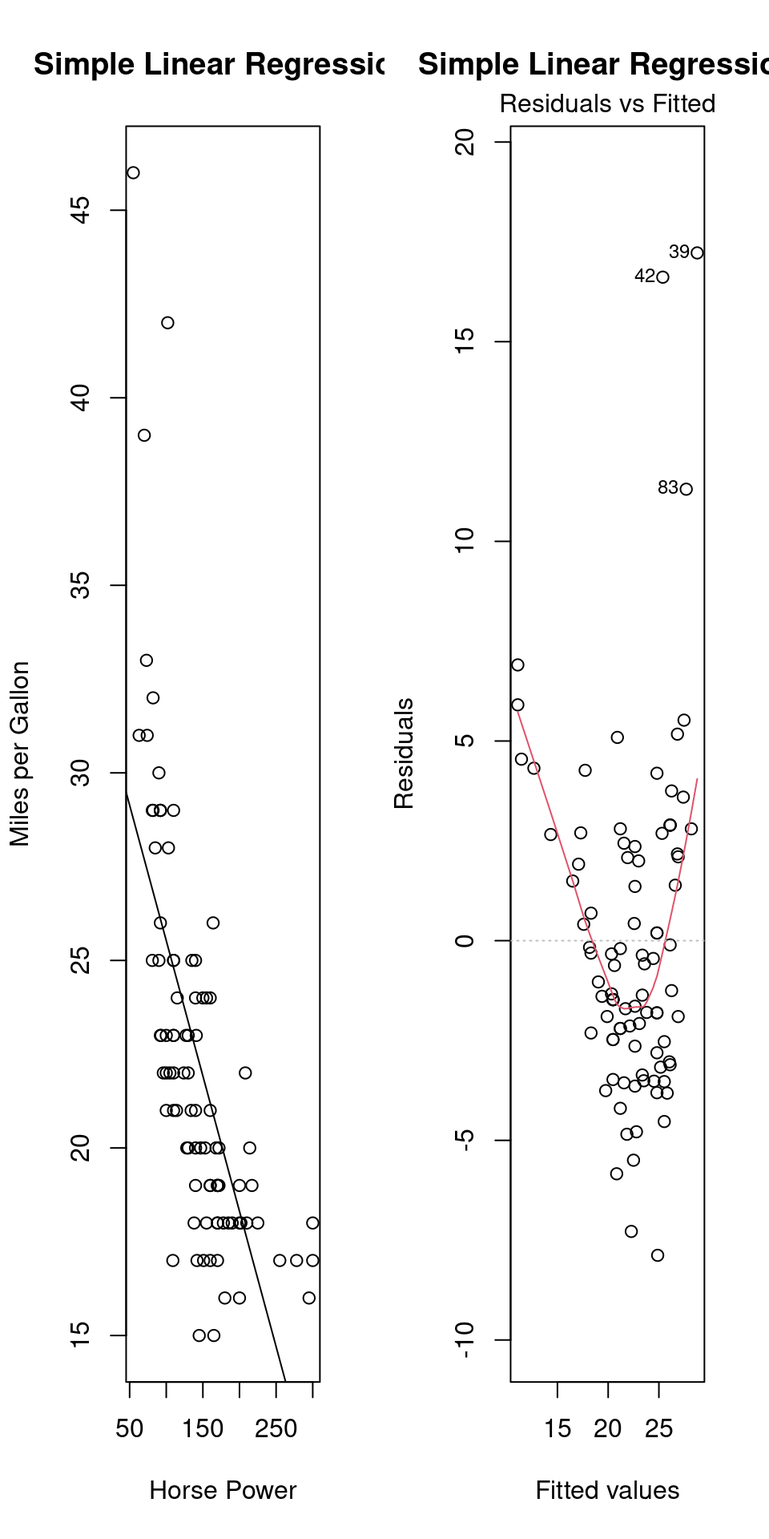
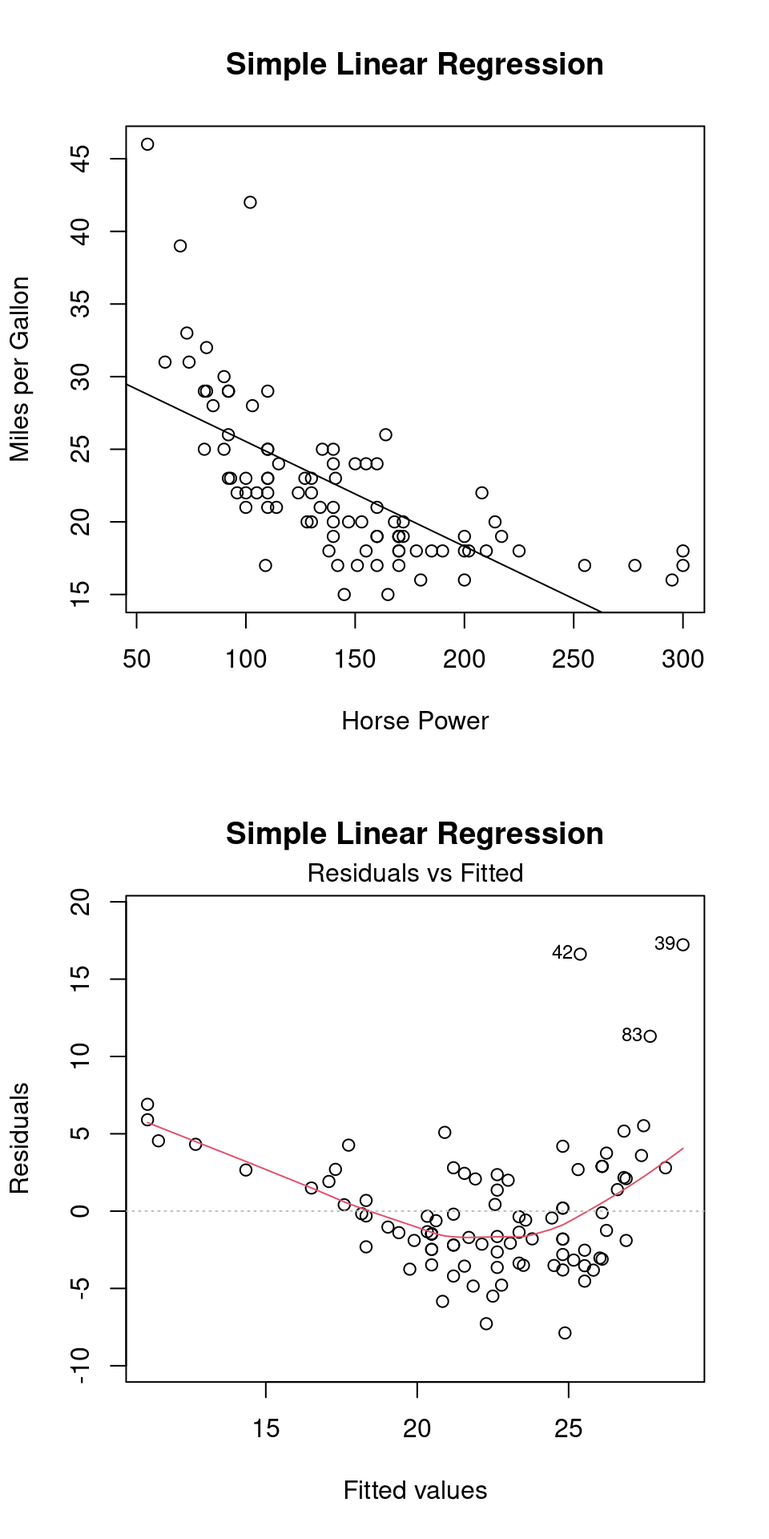
upd ch 4

diff --git a/85467d963958861b842aa28b9eb262b1ea250101/docs/04-MultipleReg.html b/85467d963958861b842aa28b9eb262b1ea250101/docs/04-MultipleReg.html
@@ -244,6 +244,7 @@ div.csl-indent {
   <li><a href="#dummy-variable-trap" id="toc-dummy-variable-trap" class="nav-link" data-scroll-target="#dummy-variable-trap">Dummy-Variable Trap</a></li>
   <li><a href="#detecting-heteroskedasticity" id="toc-detecting-heteroskedasticity" class="nav-link" data-scroll-target="#detecting-heteroskedasticity"><span class="toc-section-number">4.5.2</span>  Detecting Heteroskedasticity</a></li>
   <li><a href="#checking-non-linearity-of-the-regression-line" id="toc-checking-non-linearity-of-the-regression-line" class="nav-link" data-scroll-target="#checking-non-linearity-of-the-regression-line"><span class="toc-section-number">4.5.3</span>  Checking (Non-)Linearity of the Regression Line</a></li>
+  <li><a href="#behavior-of-the-ols-estimates-for-resampled-data" id="toc-behavior-of-the-ols-estimates-for-resampled-data" class="nav-link" data-scroll-target="#behavior-of-the-ols-estimates-for-resampled-data"><span class="toc-section-number">4.5.4</span>  Behavior of the OLS Estimates for Resampled Data</a></li>
   </ul></li>
   <li><a href="#references" id="toc-references" class="nav-link" data-scroll-target="#references">References</a></li>
   </ul>
@@ -820,7 +821,7 @@ X_female -4.103626</code></pre>
 <div class="cell" data-fig.dim="[5,10]">
 <div class="sourceCode cell-code" id="cb18"><pre class="sourceCode r code-with-copy"><code class="sourceCode r"><span id="cb18-1"><a href="#cb18-1" aria-hidden="true" tabindex="-1"></a>lm_obj_1 <span class="ot">&lt;-</span> <span class="fu">lm</span>(MPG <span class="sc">~</span> HP, <span class="at">data =</span> my_car_df)</span>
 <span id="cb18-2"><a href="#cb18-2" aria-hidden="true" tabindex="-1"></a></span>
-<span id="cb18-3"><a href="#cb18-3" aria-hidden="true" tabindex="-1"></a><span class="fu">par</span>(<span class="at">mfrow=</span><span class="fu">c</span>(<span class="dv">1</span>,<span class="dv">2</span>))</span>
+<span id="cb18-3"><a href="#cb18-3" aria-hidden="true" tabindex="-1"></a><span class="fu">par</span>(<span class="at">mfrow=</span><span class="fu">c</span>(<span class="dv">2</span>,<span class="dv">1</span>))</span>
 <span id="cb18-4"><a href="#cb18-4" aria-hidden="true" tabindex="-1"></a><span class="fu">plot</span>(<span class="at">y=</span>my_car_df<span class="sc">$</span>MPG, <span class="at">x=</span>my_car_df<span class="sc">$</span>HP, </span>
 <span id="cb18-5"><a href="#cb18-5" aria-hidden="true" tabindex="-1"></a>     <span class="at">main =</span> <span class="st">"Simple Linear Regression"</span>,</span>
 <span id="cb18-6"><a href="#cb18-6" aria-hidden="true" tabindex="-1"></a>     <span class="at">xlab =</span> <span class="st">"Horse Power"</span>, </span>
@@ -930,65 +931,154 @@ X_female -4.103626</code></pre>
 </div>
 </div>
 </div>
-<!-- 
+</section>
+<section id="behavior-of-the-ols-estimates-for-resampled-data" class="level3" data-number="4.5.4">
+<h3 data-number="4.5.4" class="anchored" data-anchor-id="behavior-of-the-ols-estimates-for-resampled-data"><span class="header-section-number">4.5.4</span> Behavior of the OLS Estimates for Resampled Data</h3>
+<p><strong>Simplify this regarding conditioning on X:</strong></p>
+<p>Usually, we only observe <em>one</em> estimates <span class="math inline">\(\hat{\beta}\)</span> computed based on <em>one</em> given data set. However, in order to understand the statistical properties of the estimators <span class="math inline">\(\hat{\beta}\)</span> we need to view them as random variables which yield different realizations in repeated samples generated from Model <a href="#eq-LinMod">Equation&nbsp;<span>4.1</span></a>. This allows us then to think about questions like:</p>
+<ul>
+<li>Is the estimator able to estimate the unknown parameter-value correctly on average?<br>
+</li>
+<li>Are the estimation results more precise if we have more data?</li>
+</ul>
+<p>A first idea about the statistical properties of the estimator <span class="math inline">\(\hat{\beta}\)</span> can be gained using Monte Carlo simulations as following.</p>
+<div class="cell">
+<div class="sourceCode cell-code" id="cb24"><pre class="sourceCode r code-with-copy"><code class="sourceCode r"><span id="cb24-1"><a href="#cb24-1" aria-hidden="true" tabindex="-1"></a><span class="do">## Sample sizes</span></span>
+<span id="cb24-2"><a href="#cb24-2" aria-hidden="true" tabindex="-1"></a>n_small      <span class="ot">&lt;-</span>  <span class="dv">10</span> <span class="co"># small sample size</span></span>
+<span id="cb24-3"><a href="#cb24-3" aria-hidden="true" tabindex="-1"></a>n_large      <span class="ot">&lt;-</span> <span class="dv">100</span> <span class="co"># large sample size</span></span>
+<span id="cb24-4"><a href="#cb24-4" aria-hidden="true" tabindex="-1"></a></span>
+<span id="cb24-5"><a href="#cb24-5" aria-hidden="true" tabindex="-1"></a><span class="do">## True parameter values</span></span>
+<span id="cb24-6"><a href="#cb24-6" aria-hidden="true" tabindex="-1"></a>beta0 <span class="ot">&lt;-</span> <span class="dv">1</span></span>
+<span id="cb24-7"><a href="#cb24-7" aria-hidden="true" tabindex="-1"></a>beta1 <span class="ot">&lt;-</span> <span class="dv">1</span></span>
+<span id="cb24-8"><a href="#cb24-8" aria-hidden="true" tabindex="-1"></a></span>
+<span id="cb24-9"><a href="#cb24-9" aria-hidden="true" tabindex="-1"></a><span class="do">## Generate explanatory variables (random design)</span></span>
+<span id="cb24-10"><a href="#cb24-10" aria-hidden="true" tabindex="-1"></a>X_n_small  <span class="ot">&lt;-</span> <span class="fu">runif</span>(n_small, <span class="at">min =</span> <span class="dv">1</span>, <span class="at">max =</span> <span class="dv">10</span>)</span>
+<span id="cb24-11"><a href="#cb24-11" aria-hidden="true" tabindex="-1"></a>X_n_large  <span class="ot">&lt;-</span> <span class="fu">runif</span>(n_large, <span class="at">min =</span> <span class="dv">1</span>, <span class="at">max =</span> <span class="dv">10</span>)</span>
+<span id="cb24-12"><a href="#cb24-12" aria-hidden="true" tabindex="-1"></a></span>
+<span id="cb24-13"><a href="#cb24-13" aria-hidden="true" tabindex="-1"></a><span class="do">## Monte-Carlo (MC) Simulation </span></span>
+<span id="cb24-14"><a href="#cb24-14" aria-hidden="true" tabindex="-1"></a><span class="do">## 1. Generate data</span></span>
+<span id="cb24-15"><a href="#cb24-15" aria-hidden="true" tabindex="-1"></a><span class="do">## 2. Compute and store estimates</span></span>
+<span id="cb24-16"><a href="#cb24-16" aria-hidden="true" tabindex="-1"></a><span class="do">## Repeat steps 1. and 2. many times</span></span>
+<span id="cb24-17"><a href="#cb24-17" aria-hidden="true" tabindex="-1"></a><span class="fu">set.seed</span>(<span class="dv">3</span>)</span>
+<span id="cb24-18"><a href="#cb24-18" aria-hidden="true" tabindex="-1"></a><span class="do">## Number of Monte Carlo repetitions</span></span>
+<span id="cb24-19"><a href="#cb24-19" aria-hidden="true" tabindex="-1"></a><span class="do">## How many samples to draw from the models</span></span>
+<span id="cb24-20"><a href="#cb24-20" aria-hidden="true" tabindex="-1"></a>rep          <span class="ot">&lt;-</span> <span class="dv">1000</span></span>
+<span id="cb24-21"><a href="#cb24-21" aria-hidden="true" tabindex="-1"></a></span>
+<span id="cb24-22"><a href="#cb24-22" aria-hidden="true" tabindex="-1"></a><span class="do">## Containers to store the lm-results</span></span>
+<span id="cb24-23"><a href="#cb24-23" aria-hidden="true" tabindex="-1"></a>n_small_list <span class="ot">&lt;-</span> <span class="fu">vector</span>(<span class="at">mode =</span> <span class="st">"list"</span>, <span class="at">length =</span> rep)</span>
+<span id="cb24-24"><a href="#cb24-24" aria-hidden="true" tabindex="-1"></a>n_large_list <span class="ot">&lt;-</span> <span class="fu">vector</span>(<span class="at">mode =</span> <span class="st">"list"</span>, <span class="at">length =</span> rep)</span>
+<span id="cb24-25"><a href="#cb24-25" aria-hidden="true" tabindex="-1"></a></span>
+<span id="cb24-26"><a href="#cb24-26" aria-hidden="true" tabindex="-1"></a><span class="cf">for</span>(r <span class="cf">in</span> <span class="dv">1</span><span class="sc">:</span>rep){</span>
+<span id="cb24-27"><a href="#cb24-27" aria-hidden="true" tabindex="-1"></a><span class="do">## Sampling from the model conditionally on X_n_small</span></span>
+<span id="cb24-28"><a href="#cb24-28" aria-hidden="true" tabindex="-1"></a>error_n_small     <span class="ot">&lt;-</span> <span class="fu">rnorm</span>(n_small, <span class="at">mean =</span> <span class="dv">0</span>, <span class="at">sd =</span> <span class="dv">5</span>)</span>
+<span id="cb24-29"><a href="#cb24-29" aria-hidden="true" tabindex="-1"></a>Y_n_small         <span class="ot">&lt;-</span> beta0 <span class="sc">+</span> beta1 <span class="sc">*</span> X_n_small <span class="sc">+</span> error_n_small</span>
+<span id="cb24-30"><a href="#cb24-30" aria-hidden="true" tabindex="-1"></a>n_small_list[[r]] <span class="ot">&lt;-</span> <span class="fu">lm</span>(Y_n_small <span class="sc">~</span> X_n_small)  </span>
+<span id="cb24-31"><a href="#cb24-31" aria-hidden="true" tabindex="-1"></a><span class="do">## Sampling from the model conditionally on X_n_large</span></span>
+<span id="cb24-32"><a href="#cb24-32" aria-hidden="true" tabindex="-1"></a>error_n_large     <span class="ot">&lt;-</span> <span class="fu">rnorm</span>(n_large, <span class="at">mean =</span> <span class="dv">0</span>, <span class="at">sd =</span> <span class="dv">5</span>)</span>
+<span id="cb24-33"><a href="#cb24-33" aria-hidden="true" tabindex="-1"></a>Y_n_large         <span class="ot">&lt;-</span> beta0 <span class="sc">+</span> beta1 <span class="sc">*</span> X_n_large <span class="sc">+</span> error_n_large</span>
+<span id="cb24-34"><a href="#cb24-34" aria-hidden="true" tabindex="-1"></a>n_large_list[[r]] <span class="ot">&lt;-</span> <span class="fu">lm</span>(Y_n_large <span class="sc">~</span> X_n_large)  </span>
+<span id="cb24-35"><a href="#cb24-35" aria-hidden="true" tabindex="-1"></a>}</span>
+<span id="cb24-36"><a href="#cb24-36" aria-hidden="true" tabindex="-1"></a></span>
+<span id="cb24-37"><a href="#cb24-37" aria-hidden="true" tabindex="-1"></a><span class="do">## Reading out the parameter estimates</span></span>
+<span id="cb24-38"><a href="#cb24-38" aria-hidden="true" tabindex="-1"></a>beta0_estimates_n_small <span class="ot">&lt;-</span> <span class="fu">rep</span>(<span class="cn">NA</span>, rep)</span>
+<span id="cb24-39"><a href="#cb24-39" aria-hidden="true" tabindex="-1"></a>beta1_estimates_n_small <span class="ot">&lt;-</span> <span class="fu">rep</span>(<span class="cn">NA</span>, rep)</span>
+<span id="cb24-40"><a href="#cb24-40" aria-hidden="true" tabindex="-1"></a>beta0_estimates_n_large <span class="ot">&lt;-</span> <span class="fu">rep</span>(<span class="cn">NA</span>, rep)</span>
+<span id="cb24-41"><a href="#cb24-41" aria-hidden="true" tabindex="-1"></a>beta1_estimates_n_large <span class="ot">&lt;-</span> <span class="fu">rep</span>(<span class="cn">NA</span>, rep)</span>
+<span id="cb24-42"><a href="#cb24-42" aria-hidden="true" tabindex="-1"></a><span class="cf">for</span>(r <span class="cf">in</span> <span class="dv">1</span><span class="sc">:</span>rep){</span>
+<span id="cb24-43"><a href="#cb24-43" aria-hidden="true" tabindex="-1"></a>beta0_estimates_n_small[r] <span class="ot">&lt;-</span> n_small_list[[r]]<span class="sc">$</span>coefficients[<span class="dv">1</span>]</span>
+<span id="cb24-44"><a href="#cb24-44" aria-hidden="true" tabindex="-1"></a>beta1_estimates_n_small[r] <span class="ot">&lt;-</span> n_small_list[[r]]<span class="sc">$</span>coefficients[<span class="dv">2</span>]</span>
+<span id="cb24-45"><a href="#cb24-45" aria-hidden="true" tabindex="-1"></a>beta0_estimates_n_large[r] <span class="ot">&lt;-</span> n_large_list[[r]]<span class="sc">$</span>coefficients[<span class="dv">1</span>]</span>
+<span id="cb24-46"><a href="#cb24-46" aria-hidden="true" tabindex="-1"></a>beta1_estimates_n_large[r] <span class="ot">&lt;-</span> n_large_list[[r]]<span class="sc">$</span>coefficients[<span class="dv">2</span>]</span>
+<span id="cb24-47"><a href="#cb24-47" aria-hidden="true" tabindex="-1"></a>}</span></code><button title="Copy to Clipboard" class="code-copy-button"><i class="bi"></i></button></pre></div>
+</div>
+<p>Now, we have produced realizations of the estimators <span class="math inline">\(\hat\beta_0|X\)</span> and <span class="math inline">\(\hat\beta_1|X\)</span> conditionally on<br>
+<span class="math display">\[
+X=\begin{pmatrix}1&amp;X_1\\\vdots&amp;\vdots\\1&amp;X_n\end{pmatrix}
+\]</span> and we have saved these realizations in <code>beta0_estimates_n_small</code>, <code>beta1_estimates_n_small</code>, <code>beta0_estimates_n_large</code>, and <code>beta1_estimates_n_large</code>.</p>
+<p>These artificially generated realizations allow us to visualize the behavior of the OLS estimates for the repeatedly sampled data.</p>
+<div class="cell" data-layout-align="center">
+<div class="sourceCode cell-code" id="cb25"><pre class="sourceCode r code-with-copy"><code class="sourceCode r"><span id="cb25-1"><a href="#cb25-1" aria-hidden="true" tabindex="-1"></a><span class="do">## Plotting the results</span></span>
+<span id="cb25-2"><a href="#cb25-2" aria-hidden="true" tabindex="-1"></a><span class="fu">library</span>(<span class="st">"scales"</span>) <span class="co"># alpha() produces transparent colors</span></span></code><button title="Copy to Clipboard" class="code-copy-button"><i class="bi"></i></button></pre></div>
+<div class="cell-output cell-output-stderr">
+<pre><code>
+Attaching package: 'scales'</code></pre>
+</div>
+<div class="cell-output cell-output-stderr">
+<pre><code>The following object is masked from 'package:purrr':
 
+    discard</code></pre>
+</div>
+<div class="cell-output cell-output-stderr">
+<pre><code>The following object is masked from 'package:readr':
 
-::: {.cell}
-
-```{.r .cell-code}
-## install.packages("AER")
-suppressPackageStartupMessages(library("AER"))
-## attach data to R session
-data("HousePrices")
-## names(HousePrices) ## gives variables names
-
-Y     <- HousePrices$price
-Y_log <- log(HousePrices$price)
-
-par(mfrow=c(1,2))
-plot(density(Y), main="", xlab="House Prices")
-curve(dnorm(x, mean=mean(Y), sd(Y)), add=TRUE, col="blue", lwd=1.3)
-legend("topleft", 
-       legend=c("Nonparametric Density Estimate", 
-                "Normal Density Estimate"), col=c("black", "blue"), lwd=1.3)
-plot(density(Y_log), main="", xlab="Log of House Prices")
-curve(dnorm(x, mean=mean(Y_log), sd(Y_log)), add=TRUE, col="blue", lwd=1.3)
-```
-
-::: {.cell-output-display}
-![](04-MultipleReg_files/figure-html/unnamed-chunk-20-1.png){width=672}
-:::
-
-```{.r .cell-code}
-## adding the house prices in logs to the dataset:
-HousePrices$price_log <- Y_log
-
-pairs(HousePrices)
-```
-
-::: {.cell-output-display}
-![](04-MultipleReg_files/figure-html/unnamed-chunk-20-2.png){width=672}
-:::
-:::
-
-
-The following code reads on the `HousePrices` dataset of the `R`-package `AER` and transforms the dependent variable $Y$ to a log-scale, $\log(Y)$, to make it close to normal distributed. 
-
-
-Next we estimate the linear regression model
-
-$$
-\log(Y)_i = \beta_1 + \beta_{lotsize} X_{lotsize,i} + \beta_{bathrooms} + X_{bathrooms,i} + \varepsilon_i
-$$
-
-
-
-
-lm_obj <- lm(price_log ~ lotsize + bathrooms, data = HousePrices)
-
-par(mfrow=c(2,2))
-plot(lm_obj)
-``` -->
+    col_factor</code></pre>
+</div>
+<div class="sourceCode cell-code" id="cb29"><pre class="sourceCode r code-with-copy"><code class="sourceCode r"><span id="cb29-1"><a href="#cb29-1" aria-hidden="true" tabindex="-1"></a><span class="do">## Define a common y-axis range</span></span>
+<span id="cb29-2"><a href="#cb29-2" aria-hidden="true" tabindex="-1"></a>y_range <span class="ot">&lt;-</span> <span class="fu">range</span>(beta0_estimates_n_small,</span>
+<span id="cb29-3"><a href="#cb29-3" aria-hidden="true" tabindex="-1"></a>                 beta1_estimates_n_small)<span class="sc">*</span><span class="fl">1.1</span></span>
+<span id="cb29-4"><a href="#cb29-4" aria-hidden="true" tabindex="-1"></a></span>
+<span id="cb29-5"><a href="#cb29-5" aria-hidden="true" tabindex="-1"></a><span class="do">## Generate the plot</span></span>
+<span id="cb29-6"><a href="#cb29-6" aria-hidden="true" tabindex="-1"></a><span class="fu">par</span>(<span class="at">family =</span> <span class="st">"serif"</span>) <span class="co"># Serif fonts</span></span>
+<span id="cb29-7"><a href="#cb29-7" aria-hidden="true" tabindex="-1"></a><span class="do">## Layout of plotting area</span></span>
+<span id="cb29-8"><a href="#cb29-8" aria-hidden="true" tabindex="-1"></a><span class="fu">layout</span>(<span class="fu">matrix</span>(<span class="fu">c</span>(<span class="dv">1</span><span class="sc">:</span><span class="dv">6</span>), <span class="dv">2</span>, <span class="dv">3</span>, <span class="at">byrow =</span> <span class="cn">TRUE</span>), <span class="at">widths =</span> <span class="fu">c</span>(<span class="dv">3</span>,<span class="dv">1</span>,<span class="dv">1</span>))</span>
+<span id="cb29-9"><a href="#cb29-9" aria-hidden="true" tabindex="-1"></a><span class="do">## Plot 1</span></span>
+<span id="cb29-10"><a href="#cb29-10" aria-hidden="true" tabindex="-1"></a><span class="fu">plot</span>(<span class="at">x=</span><span class="dv">0</span>, <span class="at">y=</span><span class="dv">0</span>, <span class="at">axes=</span><span class="cn">FALSE</span>, <span class="at">xlab=</span><span class="st">"X"</span>, <span class="at">ylab=</span><span class="st">"Y"</span>, <span class="at">type=</span><span class="st">"n"</span>,</span>
+<span id="cb29-11"><a href="#cb29-11" aria-hidden="true" tabindex="-1"></a>     <span class="at">xlim=</span><span class="fu">c</span>(<span class="dv">1</span>,<span class="dv">10</span>), <span class="at">ylim=</span><span class="fu">c</span>(<span class="sc">-</span><span class="dv">5</span>,<span class="dv">35</span>), <span class="at">main=</span><span class="st">"Small Sample (n=10)"</span>)</span>
+<span id="cb29-12"><a href="#cb29-12" aria-hidden="true" tabindex="-1"></a><span class="fu">axis</span>(<span class="dv">1</span>, <span class="at">tick =</span> <span class="cn">FALSE</span>); <span class="fu">axis</span>(<span class="dv">2</span>, <span class="at">tick =</span> <span class="cn">FALSE</span>, <span class="at">las =</span> <span class="dv">2</span>)</span>
+<span id="cb29-13"><a href="#cb29-13" aria-hidden="true" tabindex="-1"></a><span class="cf">for</span>(r <span class="cf">in</span> <span class="dv">1</span><span class="sc">:</span>rep){</span>
+<span id="cb29-14"><a href="#cb29-14" aria-hidden="true" tabindex="-1"></a><span class="fu">abline</span>(n_small_list[[r]], <span class="at">lty=</span><span class="dv">2</span>, <span class="at">lwd =</span> <span class="fl">1.3</span>, <span class="at">col=</span><span class="st">"darkorange"</span>)</span>
+<span id="cb29-15"><a href="#cb29-15" aria-hidden="true" tabindex="-1"></a>}</span>
+<span id="cb29-16"><a href="#cb29-16" aria-hidden="true" tabindex="-1"></a><span class="fu">abline</span>(<span class="at">a =</span> beta0, <span class="at">b =</span> beta1, <span class="at">lwd=</span><span class="fl">1.3</span>, <span class="at">col=</span><span class="st">"darkblue"</span>)</span>
+<span id="cb29-17"><a href="#cb29-17" aria-hidden="true" tabindex="-1"></a><span class="fu">legend</span>(<span class="st">"topleft"</span>, <span class="at">col=</span><span class="fu">c</span>(<span class="st">"darkorange"</span>, <span class="st">"darkblue"</span>), <span class="at">legend=</span><span class="fu">c</span>(</span>
+<span id="cb29-18"><a href="#cb29-18" aria-hidden="true" tabindex="-1"></a><span class="st">"Sample regression lines from</span><span class="sc">\n</span><span class="st">repeated samples (cond. on X)"</span>, </span>
+<span id="cb29-19"><a href="#cb29-19" aria-hidden="true" tabindex="-1"></a>                  <span class="st">"Population regression line"</span>), </span>
+<span id="cb29-20"><a href="#cb29-20" aria-hidden="true" tabindex="-1"></a>       <span class="at">lwd=</span><span class="fl">1.3</span>, <span class="at">lty=</span><span class="fu">c</span>(<span class="dv">2</span>,<span class="dv">1</span>), <span class="at">bty=</span><span class="st">"n"</span>)</span>
+<span id="cb29-21"><a href="#cb29-21" aria-hidden="true" tabindex="-1"></a><span class="do">## Plot 2</span></span>
+<span id="cb29-22"><a href="#cb29-22" aria-hidden="true" tabindex="-1"></a><span class="fu">plot</span>(<span class="at">x=</span><span class="fu">rep</span>(<span class="dv">0</span>,rep), <span class="at">y=</span>beta0_estimates_n_small, <span class="at">axes=</span><span class="cn">FALSE</span>, </span>
+<span id="cb29-23"><a href="#cb29-23" aria-hidden="true" tabindex="-1"></a>     <span class="at">xlab=</span><span class="st">""</span>, <span class="at">ylab=</span><span class="st">""</span>, <span class="at">pch=</span><span class="dv">19</span>, <span class="at">cex=</span><span class="fl">1.2</span>, <span class="at">ylim=</span>y_range,</span>
+<span id="cb29-24"><a href="#cb29-24" aria-hidden="true" tabindex="-1"></a>  <span class="at">main=</span><span class="fu">expression</span>(<span class="fu">hat</span>(beta)[<span class="dv">0</span>]<span class="sc">~</span><span class="st">'|'</span><span class="sc">~</span>X), <span class="at">col=</span><span class="fu">alpha</span>(<span class="st">"red"</span>,<span class="fl">0.2</span>))</span>
+<span id="cb29-25"><a href="#cb29-25" aria-hidden="true" tabindex="-1"></a><span class="fu">points</span>(<span class="at">x =</span> <span class="dv">0</span>, <span class="at">y=</span>beta0, <span class="at">pch=</span><span class="st">"-"</span>, <span class="at">cex =</span> <span class="fl">1.2</span>, <span class="at">col=</span><span class="st">"black"</span>)</span>
+<span id="cb29-26"><a href="#cb29-26" aria-hidden="true" tabindex="-1"></a><span class="fu">text</span>(<span class="at">x=</span><span class="dv">0</span>, <span class="at">y=</span>beta0, <span class="at">labels =</span> <span class="fu">expression</span>(beta[<span class="dv">0</span>]), <span class="at">pos =</span> <span class="dv">4</span>)</span>
+<span id="cb29-27"><a href="#cb29-27" aria-hidden="true" tabindex="-1"></a><span class="do">## Plot 3</span></span>
+<span id="cb29-28"><a href="#cb29-28" aria-hidden="true" tabindex="-1"></a><span class="fu">plot</span>(<span class="at">x=</span><span class="fu">rep</span>(<span class="dv">0</span>,rep), <span class="at">y=</span>beta1_estimates_n_small, <span class="at">axes=</span><span class="cn">FALSE</span>, </span>
+<span id="cb29-29"><a href="#cb29-29" aria-hidden="true" tabindex="-1"></a>     <span class="at">xlab=</span><span class="st">""</span>, <span class="at">ylab=</span><span class="st">""</span>, <span class="at">pch=</span><span class="dv">19</span>, <span class="at">cex=</span><span class="fl">1.2</span>, <span class="at">ylim=</span>y_range,</span>
+<span id="cb29-30"><a href="#cb29-30" aria-hidden="true" tabindex="-1"></a>  <span class="at">main=</span><span class="fu">expression</span>(<span class="fu">hat</span>(beta)[<span class="dv">1</span>]<span class="sc">~</span><span class="st">'|'</span><span class="sc">~</span>X), <span class="at">col=</span><span class="fu">alpha</span>(<span class="st">"red"</span>,<span class="fl">0.2</span>))</span>
+<span id="cb29-31"><a href="#cb29-31" aria-hidden="true" tabindex="-1"></a><span class="fu">points</span>(<span class="at">x =</span> <span class="dv">0</span>, <span class="at">y=</span>beta1, <span class="at">pch=</span><span class="st">"-"</span>, <span class="at">cex =</span> <span class="fl">1.2</span>, <span class="at">col=</span><span class="st">"black"</span>)</span>
+<span id="cb29-32"><a href="#cb29-32" aria-hidden="true" tabindex="-1"></a><span class="fu">text</span>(<span class="at">x=</span><span class="dv">0</span>, <span class="at">y=</span>beta1, <span class="at">labels =</span> <span class="fu">expression</span>(beta[<span class="dv">1</span>]), <span class="at">pos =</span> <span class="dv">4</span>)</span>
+<span id="cb29-33"><a href="#cb29-33" aria-hidden="true" tabindex="-1"></a><span class="do">## Plot 4</span></span>
+<span id="cb29-34"><a href="#cb29-34" aria-hidden="true" tabindex="-1"></a><span class="fu">plot</span>(<span class="at">x=</span><span class="dv">0</span>, <span class="at">y=</span><span class="dv">0</span>, <span class="at">axes=</span><span class="cn">FALSE</span>, <span class="at">xlab=</span><span class="st">"X"</span>, <span class="at">ylab=</span><span class="st">"Y"</span>, <span class="at">type=</span><span class="st">"n"</span>,</span>
+<span id="cb29-35"><a href="#cb29-35" aria-hidden="true" tabindex="-1"></a>     <span class="at">xlim=</span><span class="fu">c</span>(<span class="dv">1</span>,<span class="dv">10</span>), <span class="at">ylim=</span><span class="fu">c</span>(<span class="sc">-</span><span class="dv">5</span>,<span class="dv">35</span>), <span class="at">main=</span><span class="st">"Large Sample (n=100)"</span>)</span>
+<span id="cb29-36"><a href="#cb29-36" aria-hidden="true" tabindex="-1"></a><span class="fu">axis</span>(<span class="dv">1</span>, <span class="at">tick =</span> <span class="cn">FALSE</span>); <span class="fu">axis</span>(<span class="dv">2</span>, <span class="at">tick =</span> <span class="cn">FALSE</span>, <span class="at">las =</span> <span class="dv">2</span>)</span>
+<span id="cb29-37"><a href="#cb29-37" aria-hidden="true" tabindex="-1"></a><span class="cf">for</span>(r <span class="cf">in</span> <span class="dv">1</span><span class="sc">:</span>rep){</span>
+<span id="cb29-38"><a href="#cb29-38" aria-hidden="true" tabindex="-1"></a><span class="fu">abline</span>(n_large_list[[r]], <span class="at">lty=</span><span class="dv">2</span>, <span class="at">lwd =</span> <span class="fl">1.3</span>, <span class="at">col=</span><span class="st">"darkorange"</span>)</span>
+<span id="cb29-39"><a href="#cb29-39" aria-hidden="true" tabindex="-1"></a>}</span>
+<span id="cb29-40"><a href="#cb29-40" aria-hidden="true" tabindex="-1"></a><span class="fu">abline</span>(<span class="at">a =</span> beta0, <span class="at">b =</span> beta1, <span class="at">lwd=</span><span class="fl">1.3</span>, <span class="at">col=</span><span class="st">"darkblue"</span>)</span>
+<span id="cb29-41"><a href="#cb29-41" aria-hidden="true" tabindex="-1"></a><span class="do">## Plot 5</span></span>
+<span id="cb29-42"><a href="#cb29-42" aria-hidden="true" tabindex="-1"></a><span class="fu">plot</span>(<span class="at">x=</span><span class="fu">rep</span>(<span class="dv">0</span>,rep), <span class="at">y=</span>beta0_estimates_n_large, <span class="at">axes=</span><span class="cn">FALSE</span>, </span>
+<span id="cb29-43"><a href="#cb29-43" aria-hidden="true" tabindex="-1"></a>     <span class="at">xlab=</span><span class="st">""</span>, <span class="at">ylab=</span><span class="st">""</span>, <span class="at">pch=</span><span class="dv">19</span>, <span class="at">cex=</span><span class="fl">1.2</span>, <span class="at">ylim=</span>y_range,</span>
+<span id="cb29-44"><a href="#cb29-44" aria-hidden="true" tabindex="-1"></a>  <span class="at">main=</span><span class="fu">expression</span>(<span class="fu">hat</span>(beta)[<span class="dv">0</span>]<span class="sc">~</span><span class="st">'|'</span><span class="sc">~</span>X), <span class="at">col=</span><span class="fu">alpha</span>(<span class="st">"red"</span>,<span class="fl">0.2</span>))</span>
+<span id="cb29-45"><a href="#cb29-45" aria-hidden="true" tabindex="-1"></a><span class="fu">points</span>(<span class="at">x =</span> <span class="dv">0</span>, <span class="at">y=</span>beta0, <span class="at">pch=</span><span class="st">"-"</span>, <span class="at">cex =</span> <span class="fl">1.2</span>, <span class="at">col=</span><span class="st">"black"</span>)</span>
+<span id="cb29-46"><a href="#cb29-46" aria-hidden="true" tabindex="-1"></a><span class="fu">text</span>(<span class="at">x=</span><span class="dv">0</span>, <span class="at">y=</span>beta0, <span class="at">labels =</span> <span class="fu">expression</span>(beta[<span class="dv">0</span>]), <span class="at">pos =</span> <span class="dv">4</span>)</span>
+<span id="cb29-47"><a href="#cb29-47" aria-hidden="true" tabindex="-1"></a><span class="do">## Plot 6</span></span>
+<span id="cb29-48"><a href="#cb29-48" aria-hidden="true" tabindex="-1"></a><span class="fu">plot</span>(<span class="at">x=</span><span class="fu">rep</span>(<span class="dv">0</span>,rep), <span class="at">y=</span>beta1_estimates_n_large, <span class="at">axes=</span><span class="cn">FALSE</span>, </span>
+<span id="cb29-49"><a href="#cb29-49" aria-hidden="true" tabindex="-1"></a>     <span class="at">xlab=</span><span class="st">""</span>, <span class="at">ylab=</span><span class="st">""</span>, <span class="at">pch=</span><span class="dv">19</span>, <span class="at">cex=</span><span class="fl">1.2</span>, <span class="at">ylim=</span>y_range,</span>
+<span id="cb29-50"><a href="#cb29-50" aria-hidden="true" tabindex="-1"></a>  <span class="at">main=</span><span class="fu">expression</span>(<span class="fu">hat</span>(beta)[<span class="dv">1</span>]<span class="sc">~</span><span class="st">'|'</span><span class="sc">~</span>X), <span class="at">col=</span><span class="fu">alpha</span>(<span class="st">"red"</span>,<span class="fl">0.2</span>))</span>
+<span id="cb29-51"><a href="#cb29-51" aria-hidden="true" tabindex="-1"></a><span class="fu">points</span>(<span class="at">x=</span><span class="dv">0</span>, <span class="at">y=</span>beta1, <span class="at">pch=</span><span class="st">"-"</span>, <span class="at">cex =</span> <span class="fl">1.2</span>, <span class="at">col=</span><span class="st">"black"</span>)</span>
+<span id="cb29-52"><a href="#cb29-52" aria-hidden="true" tabindex="-1"></a><span class="fu">text</span>(<span class="at">x=</span><span class="dv">0</span>, <span class="at">y=</span>beta1, <span class="at">labels =</span> <span class="fu">expression</span>(beta[<span class="dv">1</span>]), <span class="at">pos =</span> <span class="dv">4</span>)</span></code><button title="Copy to Clipboard" class="code-copy-button"><i class="bi"></i></button></pre></div>
+<div class="cell-output-display">
+<div class="quarto-figure quarto-figure-center">
+<figure class="figure">
+<p><img src="04-MultipleReg_files/figure-html/unnamed-chunk-21-1.png" class="img-fluid figure-img" width="576"></p>
+</figure>
+</div>
+</div>
+</div>
+<p>This are promising plots:</p>
+<ul>
+<li>The realizations of <span class="math inline">\(\hat\beta_0|X\)</span> and <span class="math inline">\(\hat\beta_1|X\)</span> are scattered around the true (unknown) parameter values <span class="math inline">\(\beta_0\)</span> and <span class="math inline">\(\beta_1\)</span> for both small and large samples.</li>
+<li>The realizations of <span class="math inline">\(\hat\beta_0|X\)</span> and <span class="math inline">\(\hat\beta_1|X\)</span> concentrate more and more around the true (unknown) parameter values <span class="math inline">\(\beta_0\)</span> and <span class="math inline">\(\beta_1\)</span> as the sample size increases.</li>
+</ul>
+<p>However, this was only a simulation for one specific data generating process. Such a Monte Carlo simulation does not allow us to generalize these properties. Next we use theoretical arguments to show that these properties also hold in general.</p>
 </section>
 </section>
 <section id="references" class="level2 unnumbered">
